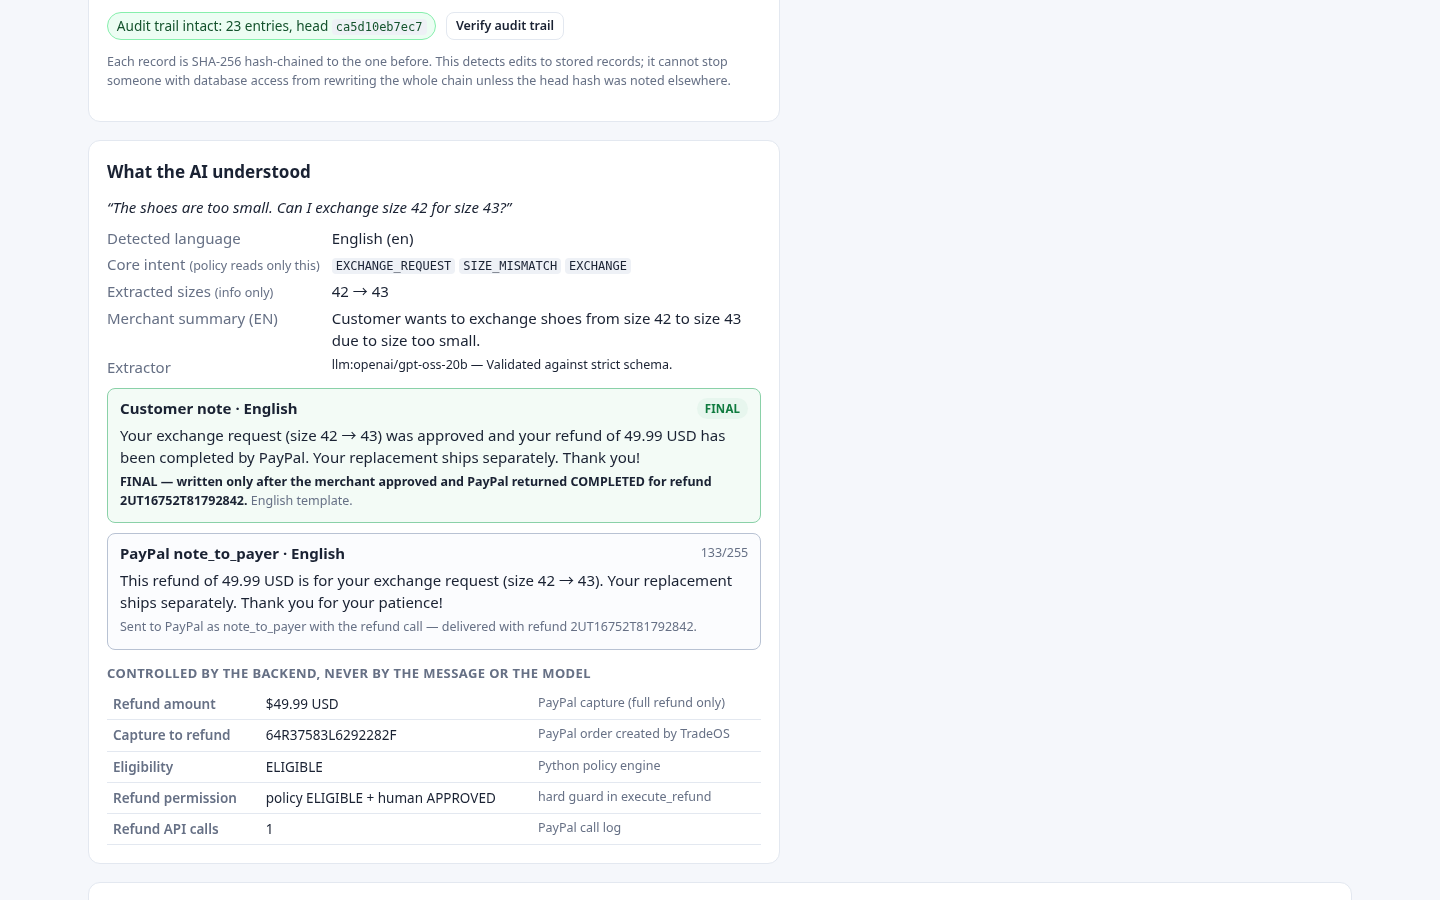
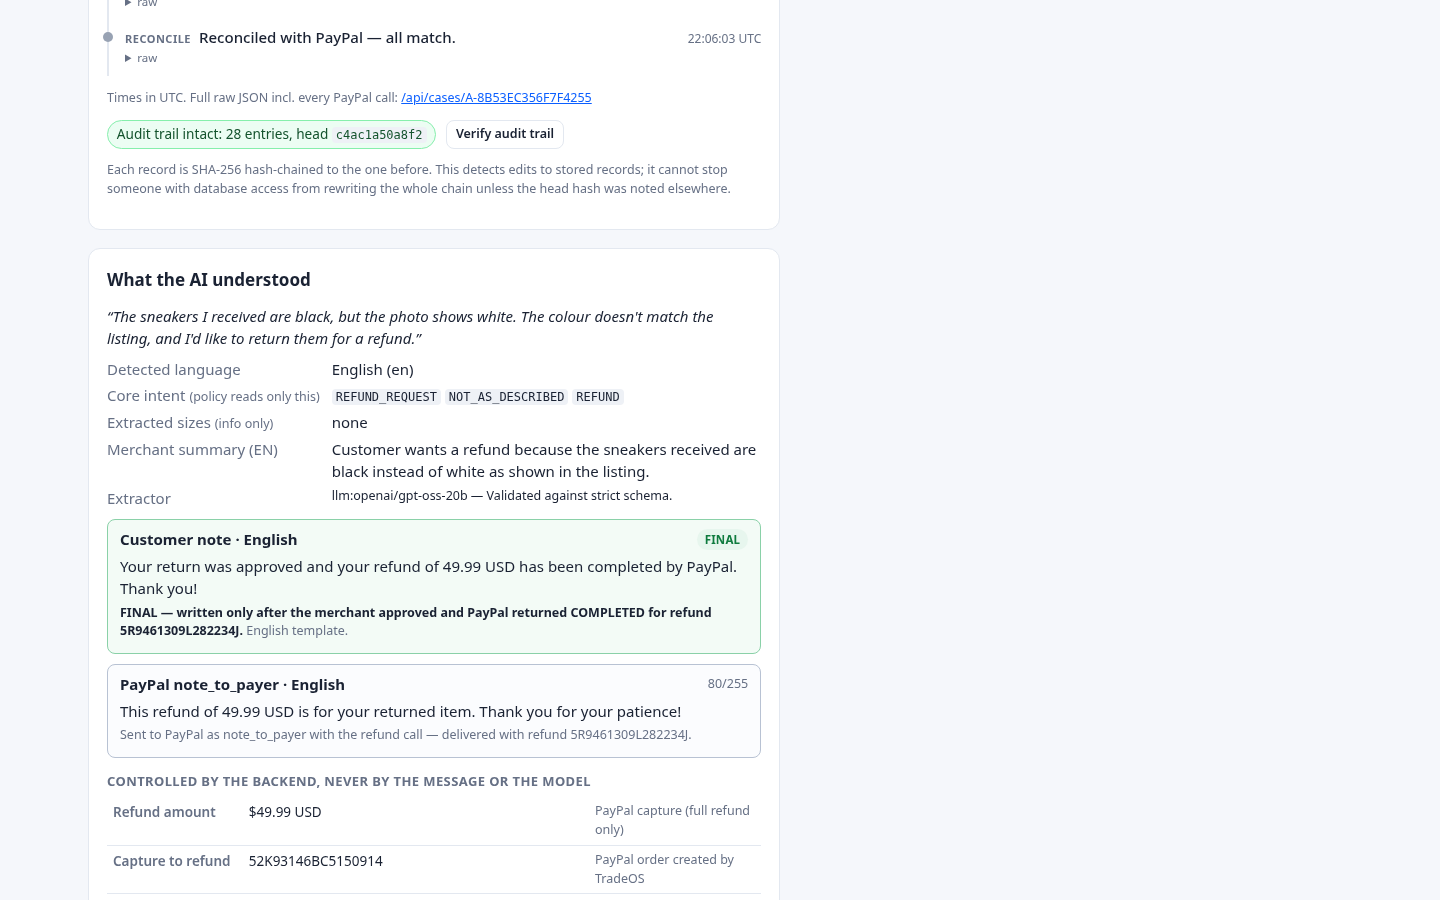
Docs: retake screenshots that showed the old Case A (now a wrong-colour return); same file names

diff --git a/README.md b/README.md
@@ -35,7 +35,7 @@ supplier without any refund.
 
 ![TradeOS dashboard — Case A: refund COMPLETED, confirmed by PayPal (live Sandbox)](docs/dashboard.png)
 
-More live-Sandbox screenshots (1440x900, taken 2026-10-10): [evidence panel](docs/screenshots/caseA-evidence-live.png),
+More live-Sandbox screenshots (1440x900, retaken 2026-10-17 after Case A became the wrong-colour return): [evidence panel](docs/screenshots/caseA-evidence-live.png),
 [evidence details](docs/screenshots/caseA-evidence-details-live.png), [reconcile + audit badge](docs/screenshots/caseA-reconcile-audit-live.png),
 [refund failure then retry](docs/screenshots/refund-failure-retry-live.png), [double click](docs/screenshots/double-click-live.png),
 [prompt injection](docs/screenshots/injection-live.png), [late request](docs/screenshots/late-request-live.png), [mobile 375px](docs/screenshots/mobile-375-live.png).
